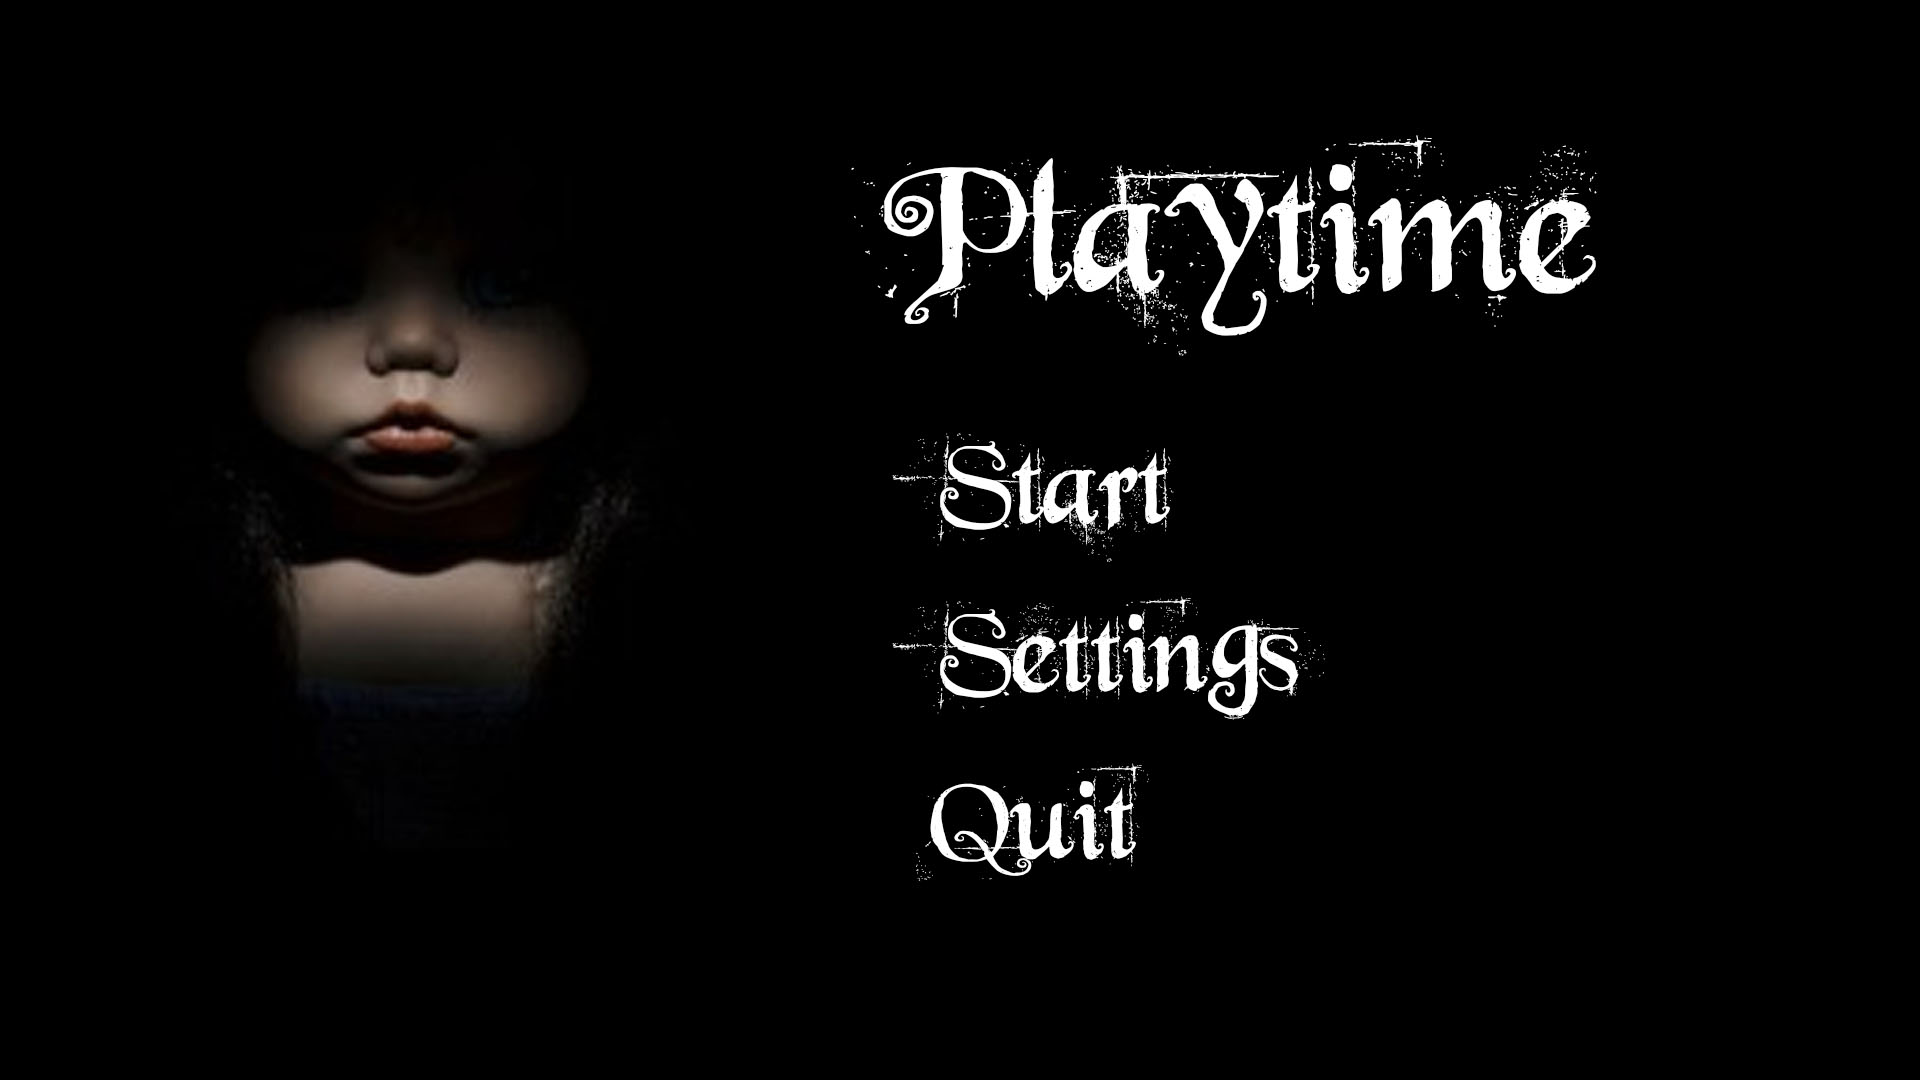
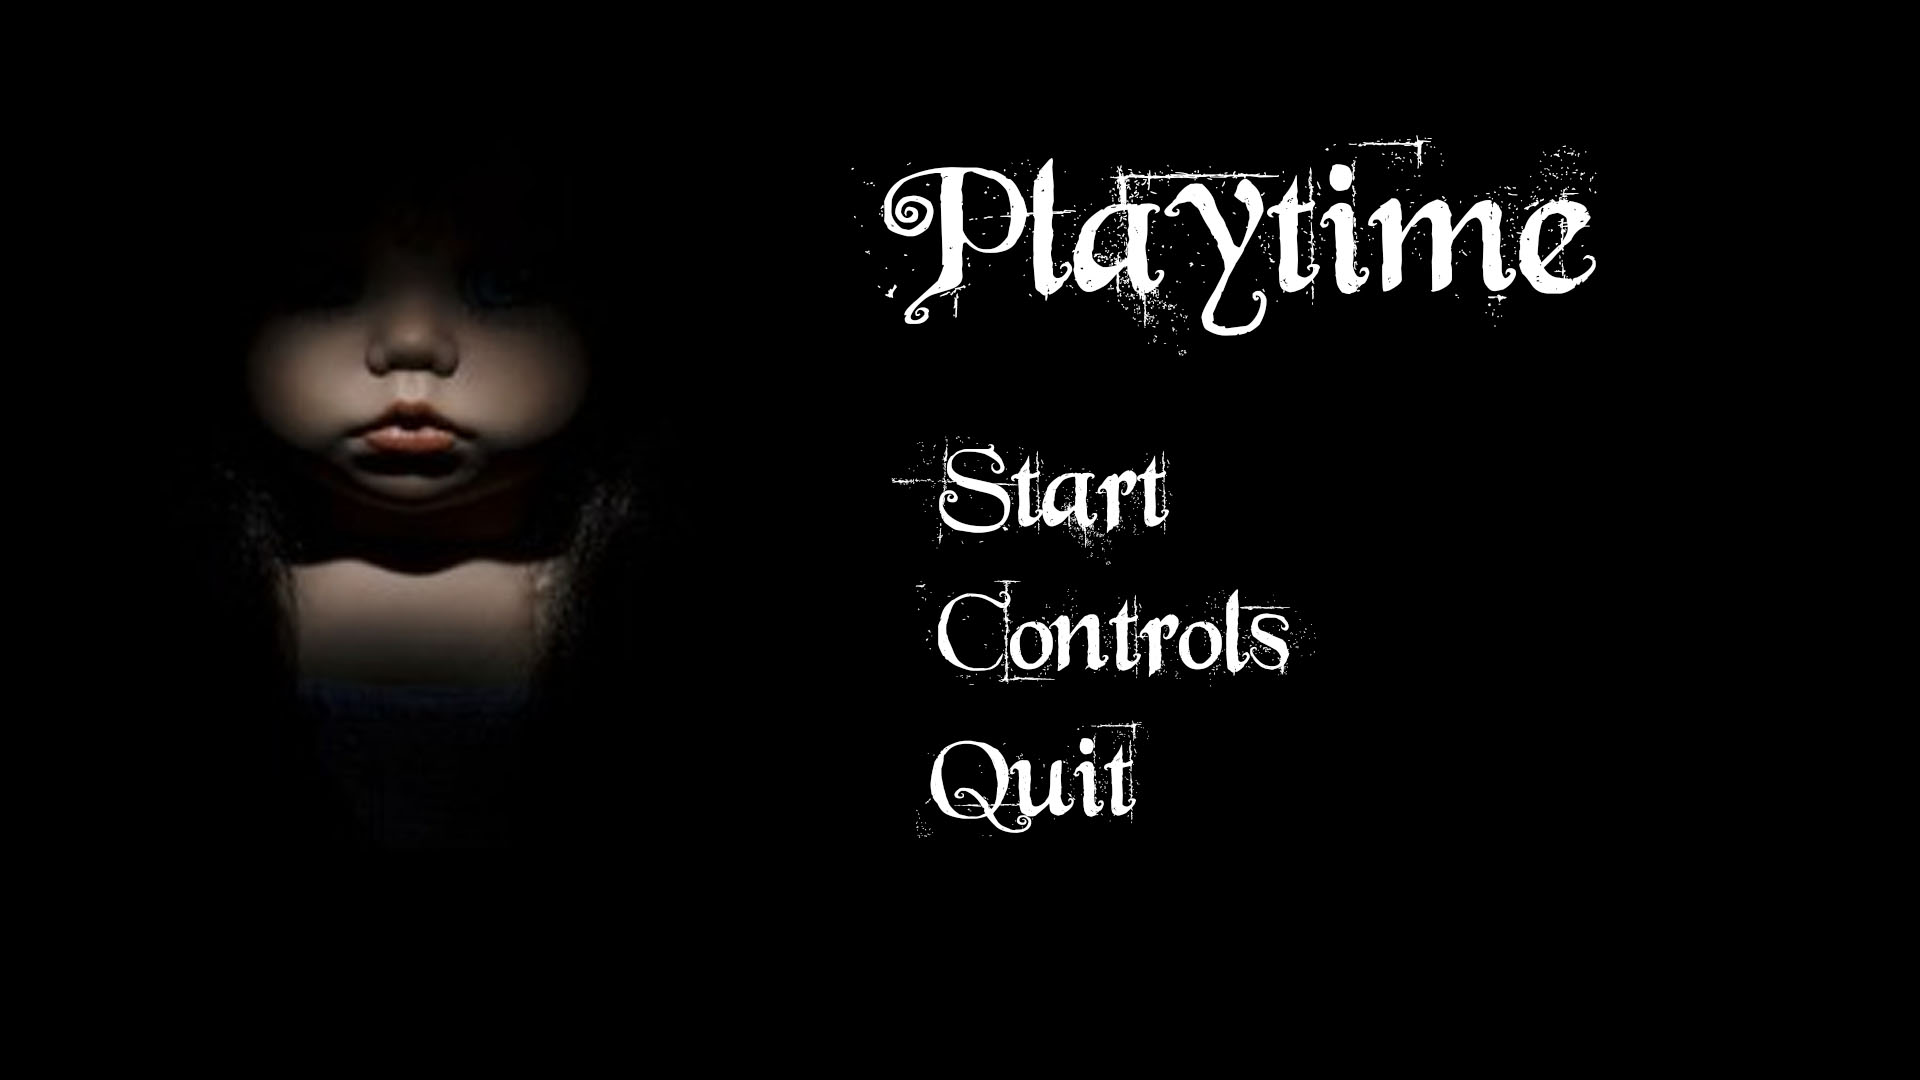
edited main menu

Changed region(s): [[0.4688, 0.55, 0.6875, 0.6722], [0.4688, 0.6722, 0.5938, 0.825], [0.4688, 0.3972, 0.625, 0.5194]]

diff --git a/Assets/OwnScripts/StartButton.cs b/Assets/OwnScripts/StartButton.cs
@@ -1,0 +1,18 @@
+using System.Collections;
+using System.Collections.Generic;
+using UnityEngine;
+
+public class StartButton : MonoBehaviour
+{
+    // Start is called before the first frame update
+    void Start()
+    {
+        
+    }
+
+    // Update is called once per frame
+    void Update()
+    {
+        
+    }
+}

diff --git a/Assets/OwnScripts/QuitButton.cs b/Assets/OwnScripts/QuitButton.cs
@@ -1,0 +1,18 @@
+using System.Collections;
+using System.Collections.Generic;
+using UnityEngine;
+
+public class QuitButton : MonoBehaviour
+{
+    // Start is called before the first frame update
+    void Start()
+    {
+        
+    }
+
+    // Update is called once per frame
+    void Update()
+    {
+        
+    }
+}
